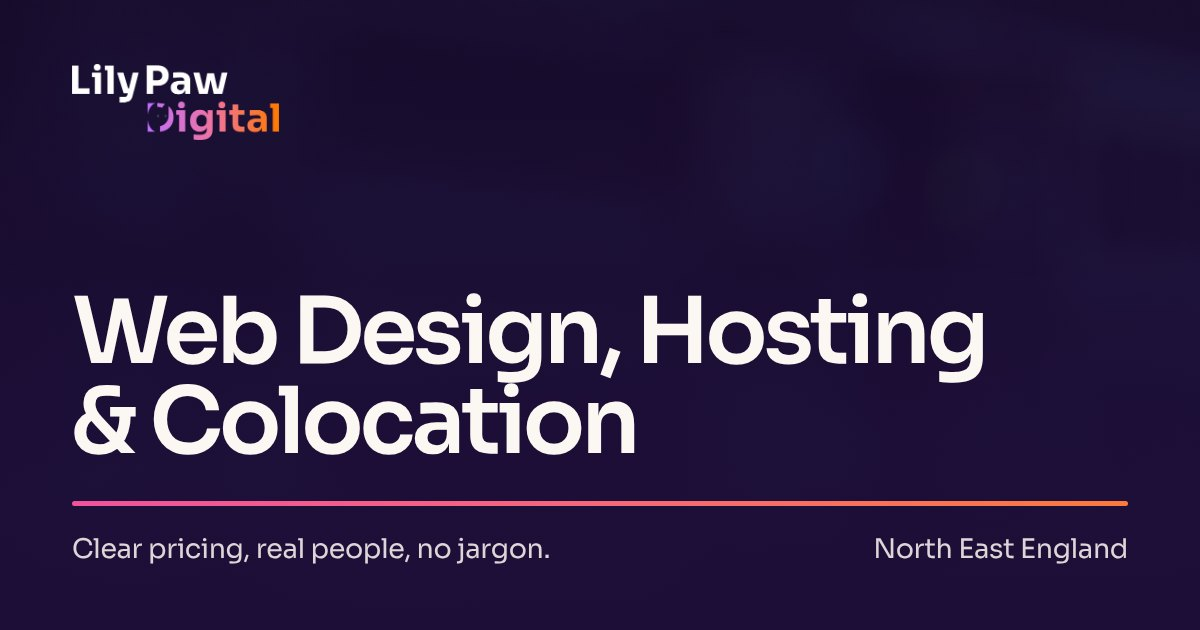
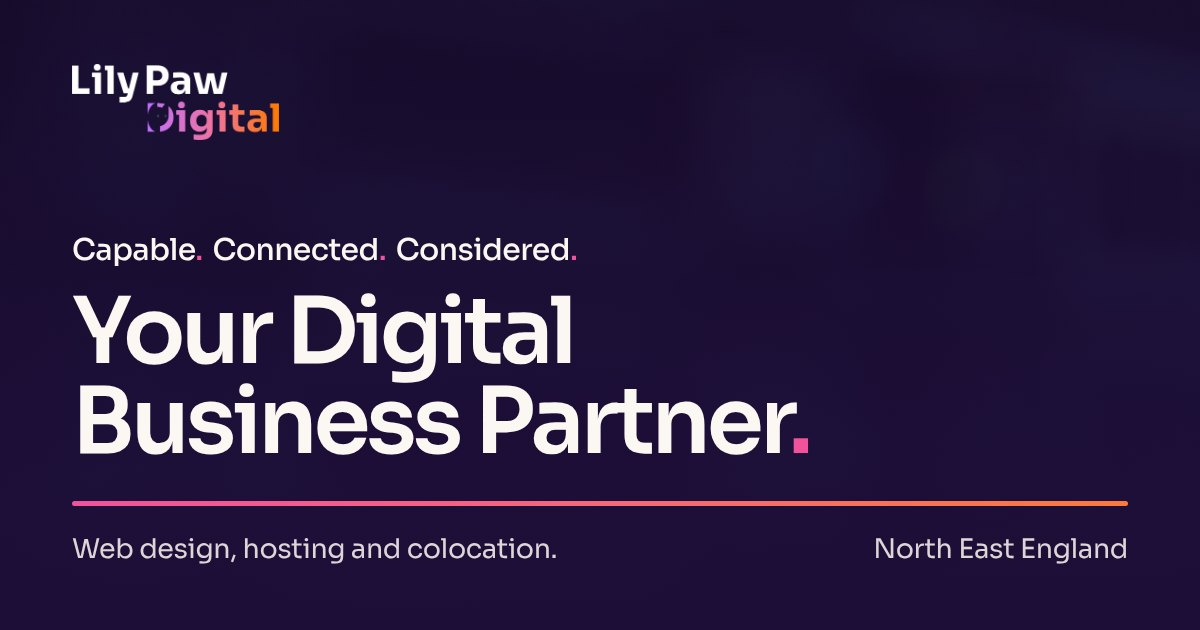
Hero: "Your Digital Business Partner." with "Capable. Connected. Considered." above (v4.14)
The three-word line is set at reading size in Sora with pink full stops
and rises in word by word before the headline; the headline's closing
full stop is pink too. Link-preview image regenerated to match.

Claude-Session: https://claude.ai/code/session_01HKWtXKfTNRFzFDNeCmmcCw

Changed region(s): [[0.0617, 0.4524, 0.8325, 0.7238], [0.0617, 0.3619, 0.4933, 0.4222], [0.0617, 0.8444, 0.4625, 0.9048]]

diff --git a/lilypawdigital/style.css b/lilypawdigital/style.css
@@ -4,7 +4,7 @@ Theme URI: https://lilypawdigital.xyz
 Author: Lily Paw Digital
 Author URI: https://lilypawdigital.xyz
 Description: Theme for Lily Paw Digital - North East web design, hosting and colocation. Navy and paper, set large, with the paw pink used sparingly.
-Version: 4.13
+Version: 4.14
 Requires at least: 6.0
 Tested up to: 6.6
 Requires PHP: 7.4
@@ -379,7 +379,7 @@ button[type="submit"], input[type="submit"] { background: var(--pink); border-co
 .lpd-hero > .lpd-inner {
   display: grid;
   grid-template-columns: minmax(0, 7fr) minmax(0, 5fr);
-  grid-template-areas: "title text" "title actions" "title note";
+  grid-template-areas: "kicker ." "title text" "title actions" "title note";
   column-gap: clamp(32px, 5vw, 80px);
   align-items: end;
   padding-top: calc(var(--bar) + 56px);
@@ -395,6 +395,20 @@ button[type="submit"], input[type="submit"] { background: var(--pink); border-co
   margin: 0;
 }
 .lpd-accent { color: inherit; }
+/* Three words above the headline. Set in the body face at reading size,
+   not as a small capitals label, with the full stops in brand pink. */
+.lpd-hero p.lpd-hero-kicker {
+  grid-area: kicker;
+  margin: 0 0 clamp(18px, 2.2vw, 28px);
+  font-size: clamp(1.05rem, 1.55vw, 1.35rem);
+  font-weight: 500;
+  letter-spacing: -0.02em;
+  line-height: 1.3;
+  color: var(--cream);
+}
+.lpd-kw { display: inline-block; margin-right: 0.42em; }
+.lpd-kw:last-child { margin-right: 0; }
+.lpd-dot { color: var(--pink); }
 .lpd-hero-text { grid-area: text; font-size: clamp(1.02rem, 1.25vw, 1.15rem); line-height: 1.6; color: rgba(251, 247, 242, 0.9); margin: 0 0 24px; max-width: 42ch; }
 .lpd-hero-actions { grid-area: actions; margin: 0; }
 .lpd-hero-note { grid-area: note; margin: 16px 0 0; font-size: 0.92rem; color: rgba(251, 247, 242, 0.78); }
@@ -415,7 +429,7 @@ button[type="submit"], input[type="submit"] { background: var(--pink); border-co
 .lpd-rail p.lpd-rail-title { font-size: 1rem; font-weight: 600; letter-spacing: -0.025em; color: var(--cream); margin-bottom: 4px; }
 
 @media (max-width: 900px) {
-  .lpd-hero > .lpd-inner { grid-template-columns: minmax(0, 1fr); grid-template-areas: "title" "text" "actions" "note"; }
+  .lpd-hero > .lpd-inner { grid-template-columns: minmax(0, 1fr); grid-template-areas: "kicker" "title" "text" "actions" "note"; }
   .lpd-hero-heading { margin-bottom: 20px; }
   .lpd-hero .wp-block-columns.lpd-rail { grid-template-columns: repeat(2, minmax(0, 1fr)); row-gap: 20px; }
 }
@@ -1272,9 +1286,11 @@ body:has(.lpd-bands > .lpd-process:first-child) .page-hero .container::after { d
   .lpd-w > span { display: inline-block; animation: lpd-word 0.9s var(--ease-out) both; animation-delay: calc(80ms + var(--i, 0) * 55ms); }
 
   .page-hero .container::after { animation: lpd-draw 1.3s var(--ease-in-out) 0.35s both; }
-  .lpd-hero-text { animation: lpd-rise 0.8s var(--ease-out) 0.45s both; }
-  .lpd-hero-actions { animation: lpd-rise 0.8s var(--ease-out) 0.55s both; }
-  .lpd-hero-note { animation: lpd-rise 0.8s var(--ease-out) 0.65s both; }
+  .lpd-kw { animation: lpd-rise 0.7s var(--ease-out) both; animation-delay: calc(60ms + var(--i, 0) * 110ms); }
+  .lpd-hero .lpd-w > span { animation-delay: calc(300ms + var(--i, 0) * 60ms); }
+  .lpd-hero-text { animation: lpd-rise 0.8s var(--ease-out) 0.6s both; }
+  .lpd-hero-actions { animation: lpd-rise 0.8s var(--ease-out) 0.7s both; }
+  .lpd-hero-note { animation: lpd-rise 0.8s var(--ease-out) 0.8s both; }
   .lpd-rail > .wp-block-column::before { animation: lpd-draw 1s var(--ease-out) both; animation-delay: calc(0.7s + var(--i, 0) * 80ms); }
   .lpd-rail > .wp-block-column > p { animation: lpd-rise 0.8s var(--ease-out) both; animation-delay: calc(0.8s + var(--i, 0) * 80ms); }
   .lpd-rail > .wp-block-column:nth-child(2) { --i: 1; }

diff --git a/lilypawdigital/js/interactions.js b/lilypawdigital/js/interactions.js
@@ -38,12 +38,49 @@
 	} )();
 
 	/* ---------------------------------------------------------------
+	 * Hero line above the headline, and the headline's closing full
+	 * stop: the full stops are coloured, which needs them in their own
+	 * element. Runs for everyone (it is colour, not motion).
+	 * ------------------------------------------------------------- */
+	var dotSpan = function () {
+		var dot = document.createElement( 'span' );
+		dot.className = 'lpd-dot';
+		dot.textContent = '.';
+		return dot;
+	};
+	document.querySelectorAll( '.lpd-hero-kicker' ).forEach( function ( line ) {
+		var words = line.textContent.replace( /\s+/g, ' ' ).trim().split( ' ' );
+		line.setAttribute( 'aria-label', words.join( ' ' ) );
+		line.textContent = '';
+		words.forEach( function ( word, i ) {
+			var span = document.createElement( 'span' );
+			span.className = 'lpd-kw';
+			span.setAttribute( 'aria-hidden', 'true' );
+			span.style.setProperty( '--i', i );
+			if ( /\.$/.test( word ) ) {
+				span.textContent = word.slice( 0, -1 );
+				span.appendChild( dotSpan() );
+			} else {
+				span.textContent = word;
+			}
+			line.appendChild( span );
+			if ( i < words.length - 1 ) line.appendChild( document.createTextNode( ' ' ) );
+		} );
+	} );
+
+	/* ---------------------------------------------------------------
 	 * Headline entrance: wrap each word so it can rise out of its own
 	 * line box (CSS does the motion). Inline elements inside the heading
 	 * are kept; only text nodes are split.
 	 * ------------------------------------------------------------- */
 	document.querySelectorAll( '.lpd-hero-heading, .page-hero .entry-title' ).forEach( function ( heading ) {
 		if ( reduceMotion ) {
+			// No word animation, but keep the pink full stop.
+			var tail = heading.lastChild;
+			if ( heading.classList.contains( 'lpd-hero-heading' ) && tail && tail.nodeType === 3 && /\.\s*$/.test( tail.textContent ) ) {
+				tail.textContent = tail.textContent.replace( /\.\s*$/, '' );
+				heading.appendChild( dotSpan() );
+			}
 			heading.classList.add( 'is-split' );
 			return;
 		}
@@ -78,6 +115,14 @@
 		};
 
 		split( heading );
+		if ( heading.classList.contains( 'lpd-hero-heading' ) ) {
+			var words = heading.querySelectorAll( '.lpd-w > span' );
+			var last = words[ words.length - 1 ];
+			if ( last && /\.$/.test( last.textContent ) ) {
+				last.textContent = last.textContent.slice( 0, -1 );
+				last.appendChild( dotSpan() );
+			}
+		}
 		// Screen readers get the sentence once, not a word at a time.
 		heading.setAttribute( 'aria-label', label );
 		heading.classList.add( 'is-split' );

diff --git a/page-content/copy-all-page-content.html b/page-content/copy-all-page-content.html
@@ -55,8 +55,12 @@
 <!-- wp:group {"className":"lpd-inner"} -->
 <div class="wp-block-group lpd-inner">
 
+<!-- wp:paragraph {"className":"lpd-hero-kicker"} -->
+<p class="lpd-hero-kicker">Capable. Connected. Considered.</p>
+<!-- /wp:paragraph -->
+
 <!-- wp:heading {"level":1,"className":"lpd-hero-heading"} -->
-<h1 class="wp-block-heading lpd-hero-heading">Web Design, Hosting &amp; Colocation</h1>
+<h1 class="wp-block-heading lpd-hero-heading">Your Digital Business Partner.</h1>
 <!-- /wp:heading -->
 
 <!-- wp:paragraph {"className":"lpd-hero-text"} -->

diff --git a/lilypawdigital/inc/pages/home.html b/lilypawdigital/inc/pages/home.html
@@ -3,8 +3,12 @@
 <!-- wp:group {"className":"lpd-inner"} -->
 <div class="wp-block-group lpd-inner">
 
+<!-- wp:paragraph {"className":"lpd-hero-kicker"} -->
+<p class="lpd-hero-kicker">Capable. Connected. Considered.</p>
+<!-- /wp:paragraph -->
+
 <!-- wp:heading {"level":1,"className":"lpd-hero-heading"} -->
-<h1 class="wp-block-heading lpd-hero-heading">Web Design, Hosting &amp; Colocation</h1>
+<h1 class="wp-block-heading lpd-hero-heading">Your Digital Business Partner.</h1>
 <!-- /wp:heading -->
 
 <!-- wp:paragraph {"className":"lpd-hero-text"} -->

diff --git a/lilypawdigital/inc/pages/known-fingerprints.php b/lilypawdigital/inc/pages/known-fingerprints.php
@@ -19,6 +19,7 @@ return array(
 		'e2f5b87dd2e88f2af08ac54fefc58da7',
 		'6893bf8af66a8bac22e8db65dc6523cd',
 		'7a2dd24d2803b94b3d34cfc9fc1c0a5e',
+		'b39aa26dc9a700ef99de2c003e6edf72',
 	),
 	'colocation' => array(
 		'214f43395fcae101b8b8c79000f0074a',

diff --git a/lilypawdigital/functions.php b/lilypawdigital/functions.php
@@ -5,7 +5,7 @@
 
 if ( ! defined( 'ABSPATH' ) ) exit;
 
-define( 'LPD_VERSION', '4.13' );
+define( 'LPD_VERSION', '4.14' );
 
 function lpd_setup() {
 	load_theme_textdomain( 'lilypawdigital', get_template_directory() . '/languages' );

diff --git a/DESIGN.md b/DESIGN.md
@@ -88,6 +88,12 @@ three equal feature cards with icon-title-text, centred hero with a pill
 badge above it, every element fading up on scroll, decorative sparkles,
 stock illustrations, vague superlatives in copy.
 
+One exception, asked for by the owner: the hero line "Capable. Connected.
+Considered." above the main headline. It is set in Sora at reading size
+(about 1.35rem, weight 500), in normal case with pink full stops, never as
+a small uppercase or monospaced label. Keep it that way, and don't add
+similar lines above other headings.
+
 ## 4. Colour
 
 All colours are variables at the top of `lilypawdigital/style.css`. Never
@@ -148,6 +154,7 @@ Sora everywhere, one self-hosted variable file
 
 | Role | Size | Weight | Tracking | Line height |
 |---|---|---|---|---|
+| Hero line ("Capable. Connected. Considered.") | `clamp(1.05rem, 1.55vw, 1.35rem)` | 500 | -0.02em | 1.3 |
 | Hero h1 | `clamp(2.6rem, 6.3vw, 5.75rem)` | 600 | -0.045em | 0.98 |
 | Page title (inner) | `clamp(2.6rem, 7vw, 5.75rem)` | 600 | -0.05em | 0.98 |
 | Section h2 | `clamp(2rem, 4.4vw, 3.5rem)` | 600 | -0.045em | 1.02 |
@@ -252,7 +259,7 @@ edited by hand keep the old markup forever.
 |---|---|---|
 | Header | `.site-header` | Fixed, transparent over the hero, solid `.is-scrolled` after 24px. Blur only ≥901px (see §14). |
 | Buttons | `.wp-block-button.lpd-btn-primary` / `.lpd-btn-secondary`, `.btn` | Pill, 50px tall, press scales to 0.97. |
-| Hero | `.lpd-hero`, `.lpd-hero-heading`, `.lpd-hero-text`, `.lpd-hero-actions`, `.lpd-hero-note`, `.lpd-rail` | Bottom-aligned; title left, text and buttons right; four facts on a rail. Background film is injected by JS, never in content. |
+| Hero | `.lpd-hero`, `.lpd-hero-kicker`, `.lpd-hero-heading`, `.lpd-hero-text`, `.lpd-hero-actions`, `.lpd-hero-note`, `.lpd-rail` | Bottom-aligned. Left: the line "Capable. Connected. Considered." above the headline "Your Digital Business Partner." Right: text and buttons. Four facts on a rail below. The full stops in both are pink (`.lpd-dot`, added by JS); the three words rise in one by one before the headline. Background film is injected by JS, never in content. |
 | Statement | `.lpd-statement`, `.lpd-statement-text` | One sentence, set large. |
 | Section heading | `.lpd-section-heading` | h2 + optional p. |
 | Service panel | `.lpd-service-card` + `.lpd-service-web` / `.lpd-service-colo` / `.lpd-service-more` | Picture on top (CSS background), title, text, price line, outline link. |
@@ -293,7 +300,7 @@ Component rules:
 | `assets/images/colocation/colocation-1/2/3.jpg` | The actual data hall, cable trays, fire suppression |
 | `assets/images/work/ryton-singers-desktop.jpg`, `ryton-singers-phone.jpg` | rytonsingers.org.uk — Web Design service panel, and beside Joanna T's review (the main one) |
 | `assets/images/work/ryton-cc-desktop.jpg`, `ryton-cc-phone.jpg` | rytoncc.org.uk — beside Amanda's testimonial and on Our Work |
-| `assets/images/share.jpg` | 1200×630 link-preview image (logo, headline, tagline). `lpd_share_meta()` in `functions.php` prints it with a title and description unless an SEO plugin is active. Regenerate it if the headline or logo changes. |
+| `assets/images/share.jpg` | 1200×630 link-preview image (logo, hero line, headline, services). Source page: `.preview/share/index.html` is not committed; rebuild it from this description if the headline changes. `lpd_share_meta()` in `functions.php` prints it with a title and description unless an SEO plugin is active. Regenerate it if the headline or logo changes. |
 | `assets/images/hero-poster.jpg`, `assets/video/hero-bg.{webm,mp4}` | Hero film (skipped on phones, data saver, reduced motion) |
 
 Rules for client-site screenshots:

diff --git a/README.md b/README.md
@@ -12,7 +12,7 @@ WordPress theme for lilypawdigital.xyz, plus the page content it ships with.
 | `tools/` | Local preview, checks and tests (`bash tools/check.sh`). |
 | `docs/impeccable-audit.md` | Design and accessibility audit, before and after v3.1. |
 
-## Design (v4.13)
+## Design (v4.14)
 
 - **Spacing:** one scale, set as variables at the top of `style.css`. Every section is separated by the same distance, every heading sits the same distance above its content, and every grid and panel uses the same gap and padding.
 - **Surfaces:** the brand purple is the page colour; pricing, FAQ, About and Contact sit on a pale lilac.
